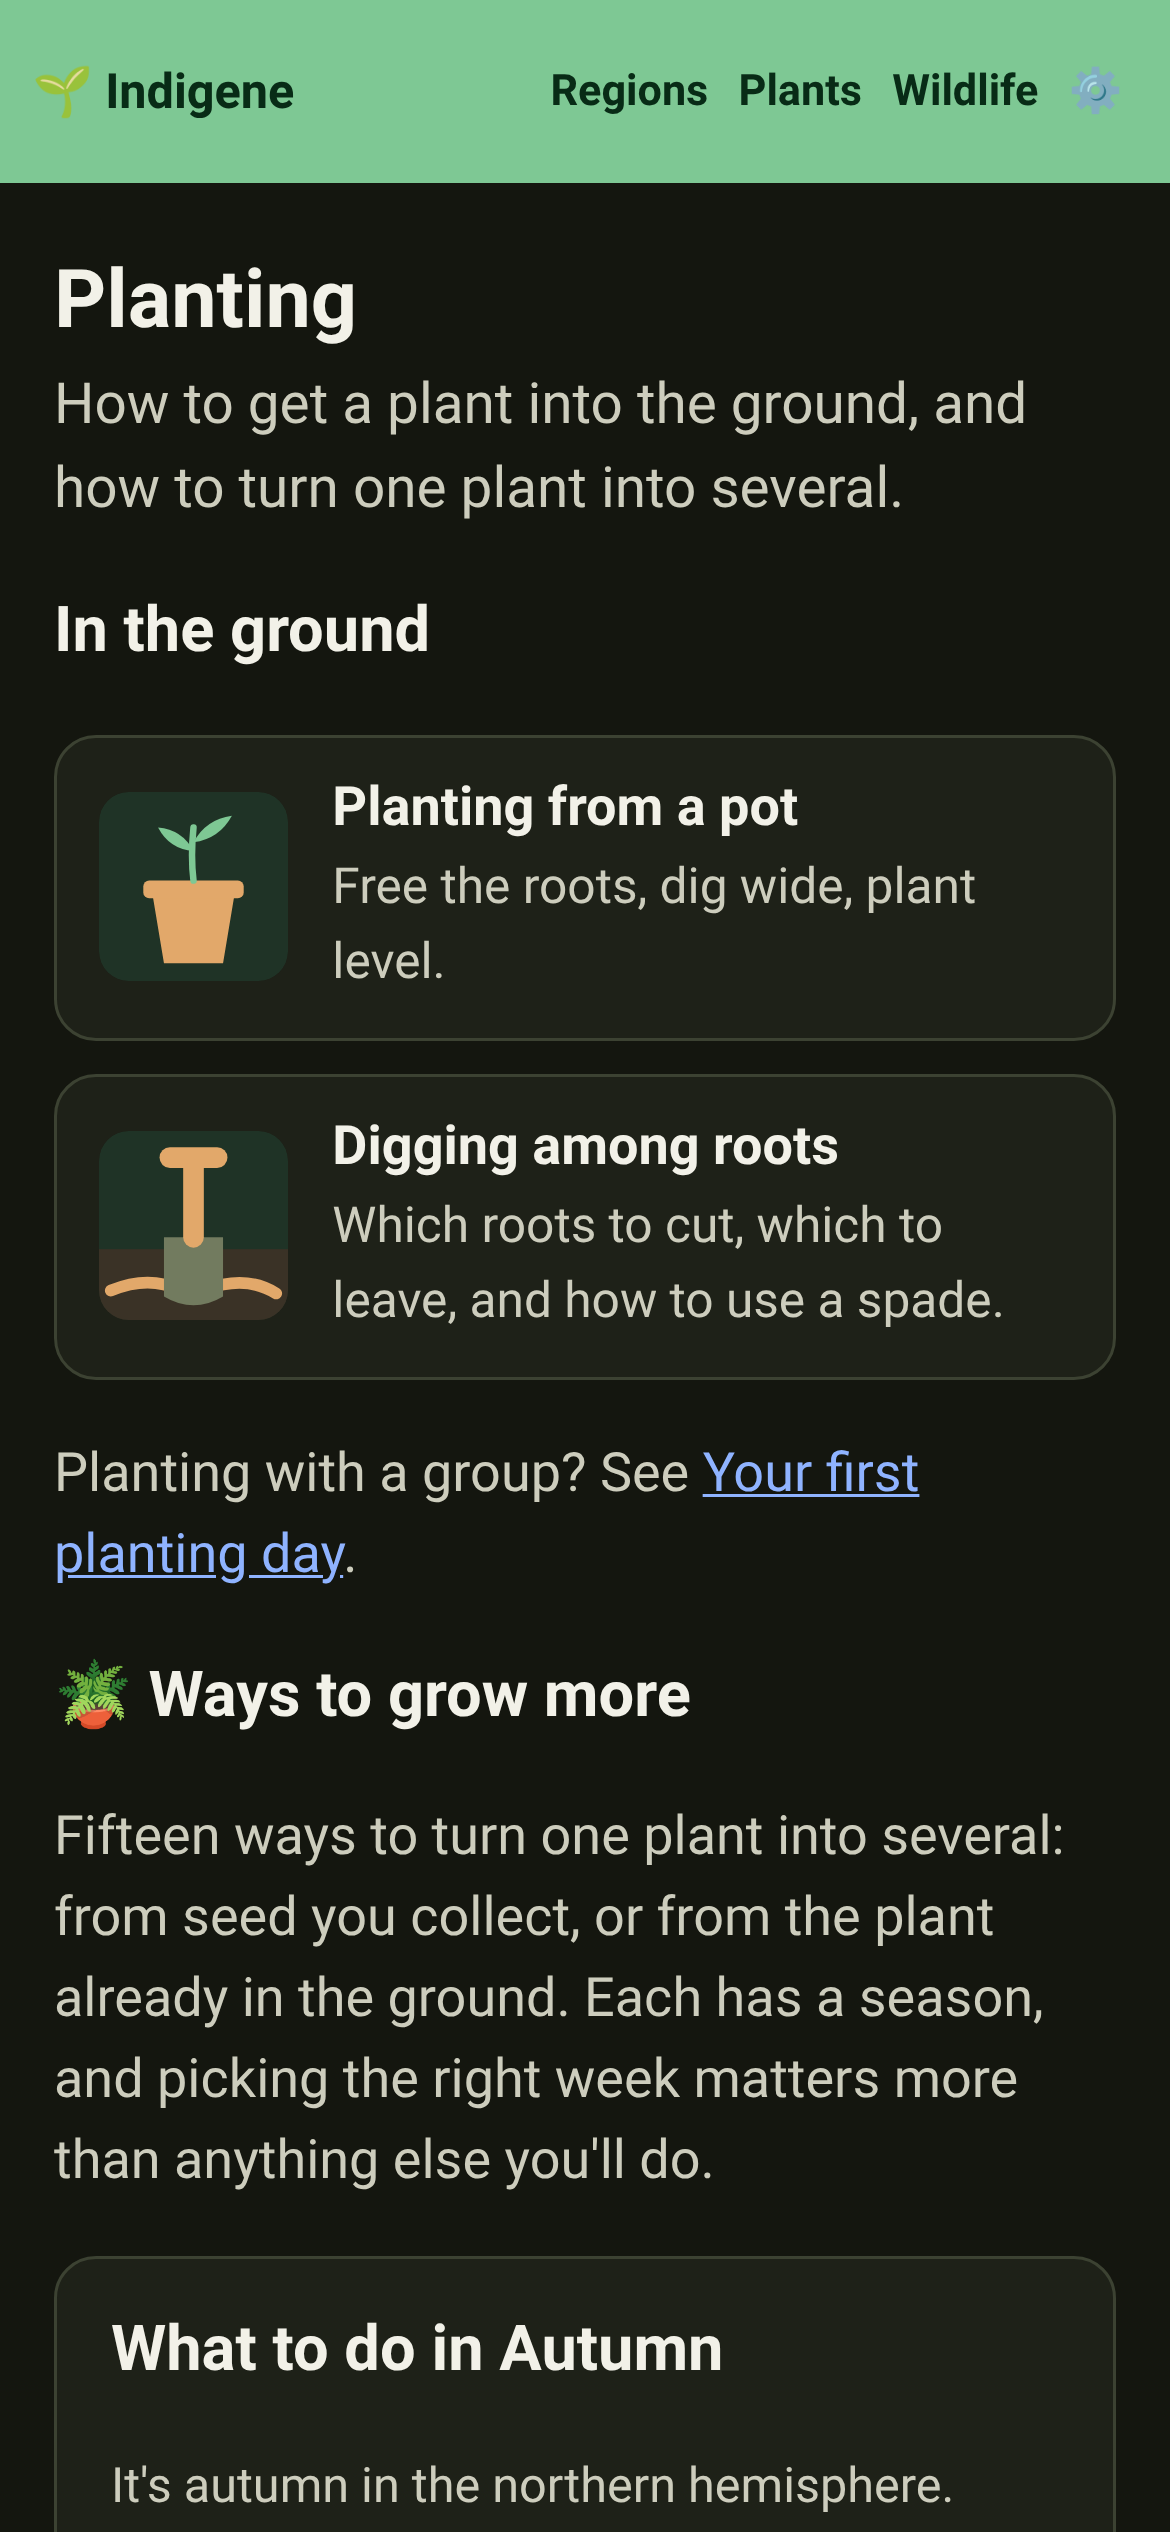
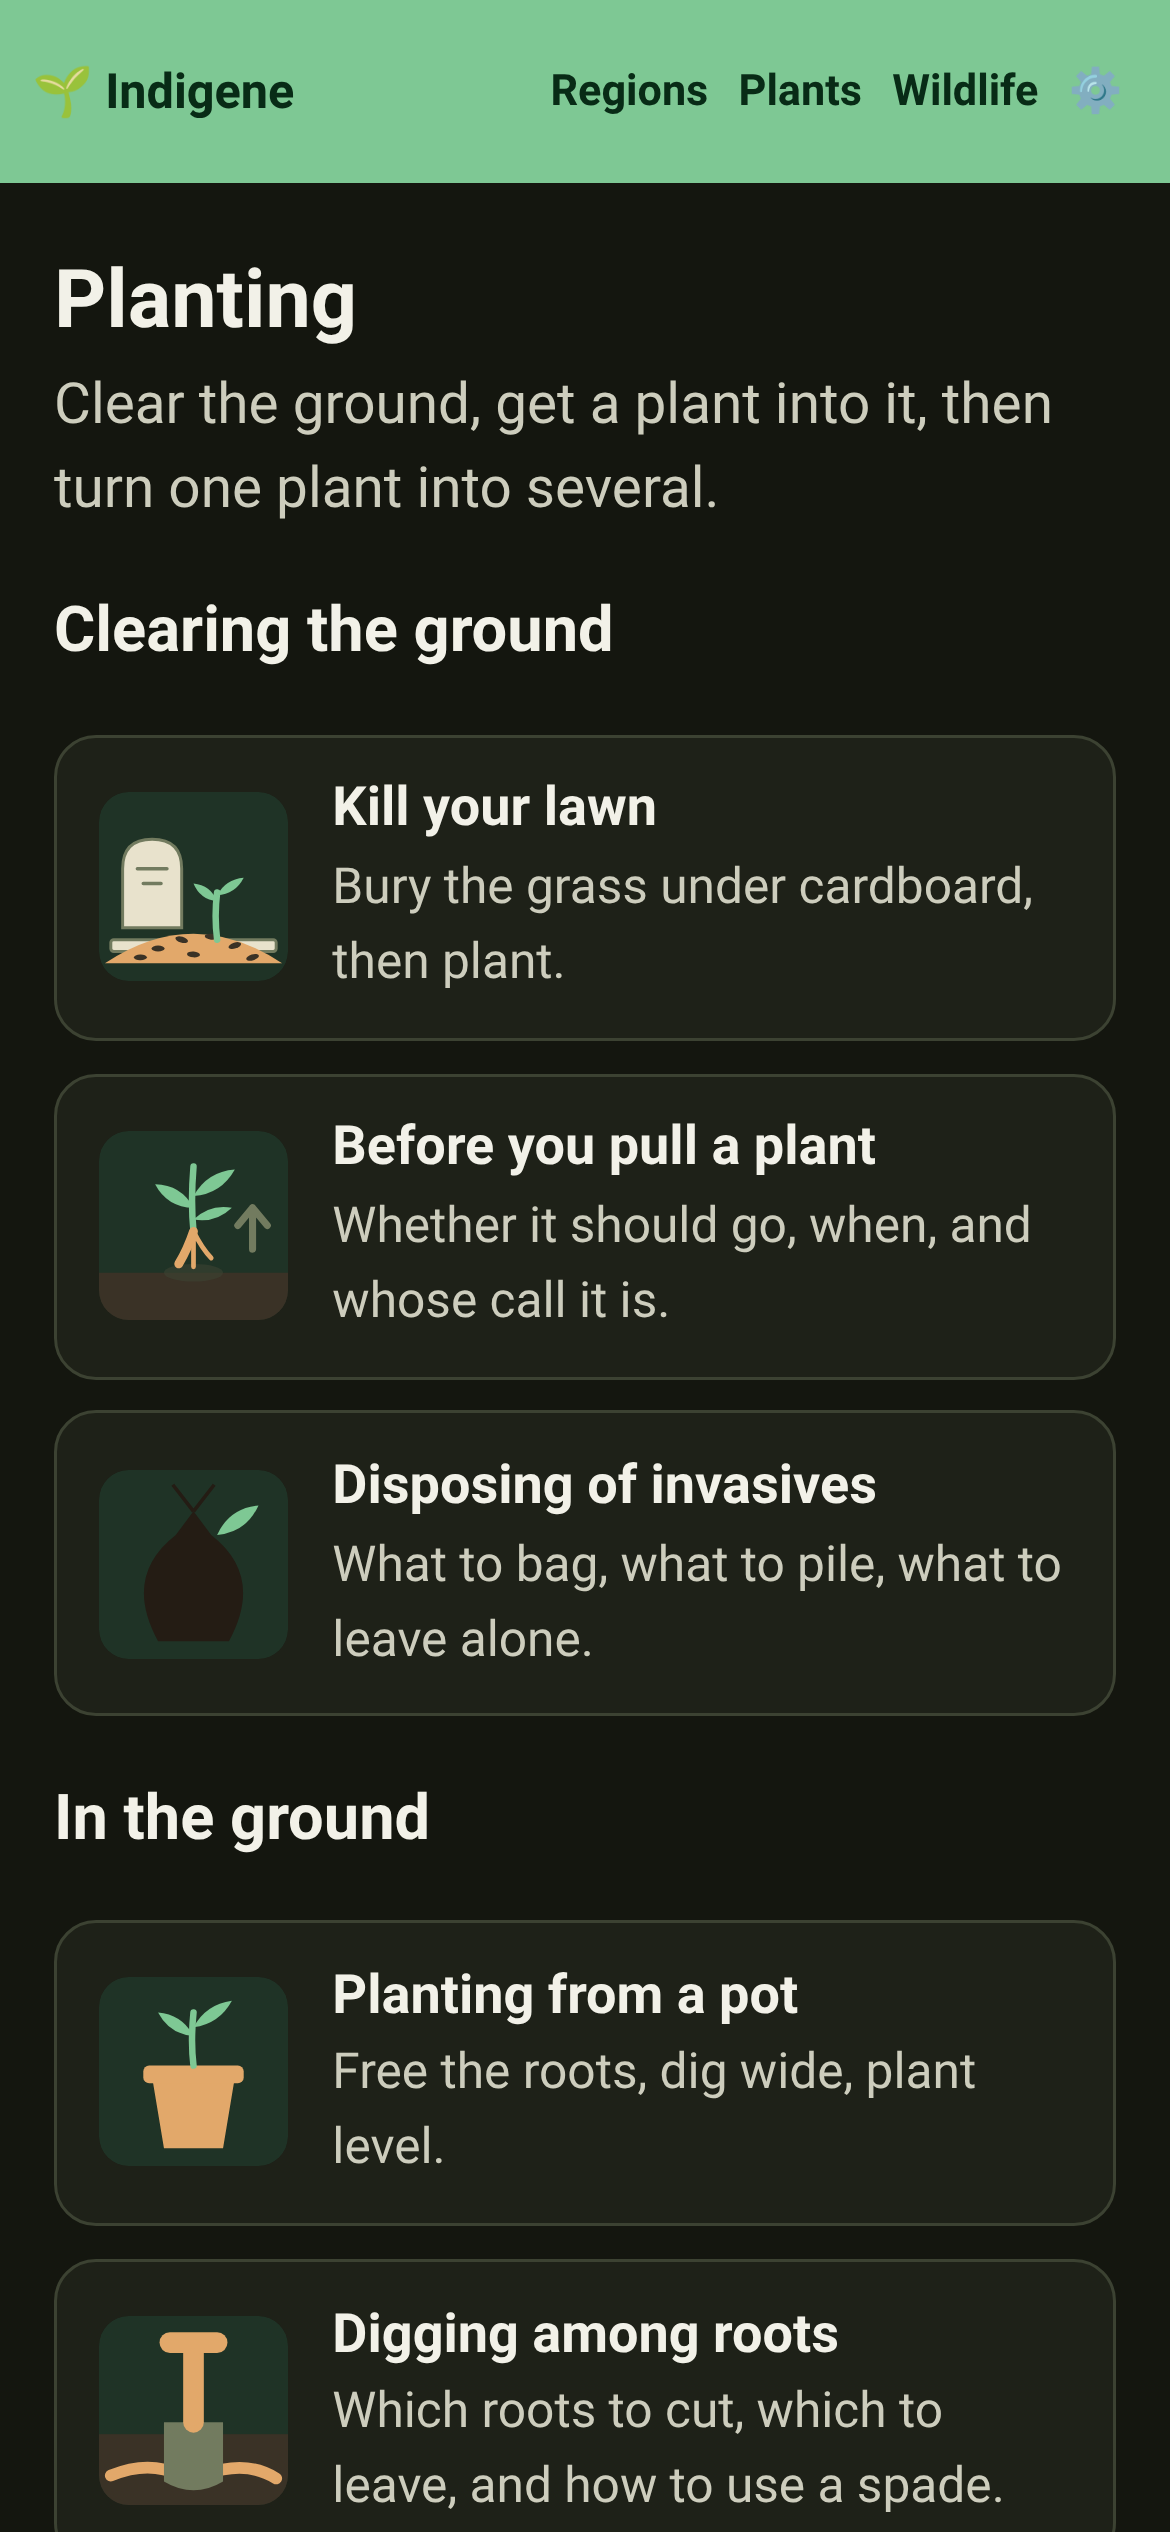
Planting runs in the order the work does
Clearing the ground (the lawn guide, Before you pull a plant, disposing
of invasives), in the ground (the two how-to guides), then the ways to
grow more. The lawn guide was a link in the middle of the page; it is a
row now, with the others.

routes.test.ts writes out the fifteen technique addresses so that no
rearrangement can move them.

Claude-Session: https://claude.ai/code/session_01Sq9k8BgnwbwYtWVqdCeZQE

diff --git a/app/src/steps/planting.ts b/app/src/steps/planting.ts
@@ -1,5 +1,13 @@
-// Ways to grow more: the index at `#/planting` and a page per technique at
-// `#/planting/<slug>`.
+// Planting (`#/planting`): the page for everything between choosing a plant
+// and having more of it. It runs in the order the work does — clearing the
+// ground (the lawn guide, Before you pull a plant, disposing of invasives),
+// getting a plant in the ground (the two how-to guides in `lib/howto.ts`),
+// then the ways to grow more, a page per technique at `#/planting/<slug>`.
+//
+// The technique addresses are older than this layout and are linked from
+// every plant page and from the release notes; `routes.test.ts` pins each one
+// so a rearrangement here can never move them. The rest of this note is about
+// the techniques.
 //
 // ## Why these left the plant page
 //
@@ -52,7 +60,7 @@ import { commonName } from "../lib/names";
 import { richText } from "../components/rich-text";
 import { seasonStrip } from "../components/season-strip";
 import { GUIDES, guideAt } from "../lib/howto";
-import { guideRow, renderGuide } from "./howto";
+import { guideRow, pageRow, renderGuide } from "./howto";
 
 /** The index's address. One place knows the URL shape. */
 const INDEX_HREF = "#/planting";
@@ -186,12 +194,18 @@ export async function renderPlantingIndex(main: HTMLElement): Promise<void> {
   main.append(
     el("h2", { class: "step-title" }, t("planting.landTitle")),
     el("p", { class: "step-lede" }, t("planting.landLede")),
-    // Getting a plant into the ground comes first: two how-to guides, and the
-    // page that gathers them for a group planting.
-    el("h3", {}, t("planting.groundTitle")),
+    // The page runs in the order the work does: clear the ground, plant, then
+    // make more. Each row is a page of its own; the techniques are below.
+    el("h3", { id: "clearing" }, t("planting.clearTitle")),
+    el("div", { class: "guide-rows" }, [
+      pageRow("#/kill-your-lawn", "bury", t("lawn.title"), t("planting.row.lawn")),
+      pageRow("#/removing", "pull", t("removing.title"), t("planting.row.removing")),
+      ...GUIDES.filter((g) => g.home === "removing").map(guideRow),
+    ]),
+    el("h3", { id: "ground" }, t("planting.groundTitle")),
     el("div", { class: "guide-rows" }, GUIDES.filter((g) => g.home === "planting").map(guideRow)),
     el("p", { class: "more-link" }, tx("howto.groupWayOn", { link: el("a", { href: "#/volunteer" }, t("volunteer.title")) })),
-    el("h3", {}, t("planting.title")),
+    el("h3", { id: "grow-more" }, t("planting.title")),
     el("p", {}, t("planting.lede")),
     // What this season is for, and the two things to know before believing any
     // window on the page. One stack on a phone; on a laptop the card takes the
@@ -212,8 +226,6 @@ export async function renderPlantingIndex(main: HTMLElement): Promise<void> {
     ]),
     techniqueGroup("seed"),
     techniqueGroup("plant"),
-    // Most gardens start from turf, and none of the techniques above clear it.
-    el("p", { class: "more-link" }, tx("lawn.wayOn", { link: el("a", { href: "#/kill-your-lawn" }, t("lawn.wayOnLink")) })),
     sourcesSection(),
     el("div", { class: "btn-row", style: "margin-top:1rem" }, [
       el("button", { class: "btn btn-secondary", onClick: () => navigate("plants") }, t("planting.browsePlants")),

diff --git a/app/src/lib/routes.test.ts b/app/src/lib/routes.test.ts
@@ -1,5 +1,7 @@
 import { describe, it, expect } from "vitest";
-import { addressParam } from "./routes";
+import { addressParam, canonicalPath, parseRoute, shareablePaths } from "./routes";
+import { techniqueBySlug } from "./planting";
+import { GUIDES } from "./howto";
 
 describe("addressParam", () => {
   it("reads the query a link wrote into the hash", () => {
@@ -13,5 +15,37 @@ describe("addressParam", () => {
 
   it("ignores a leftover search string while the hash is the route", () => {
     expect(addressParam("add", "#/saved/abc", "?add=oak")).toBeNull();
+  });
+});
+
+// Addresses that are already out in the world: on every plant page's "How to
+// grow more", in the release notes, in links people have sent. The Planting
+// page has been rearranged around them once and will be again; these must
+// never move. Written out, not read from the catalog, so renaming a slug
+// there fails here.
+describe("planting addresses that must keep working", () => {
+  const TECHNIQUES = [
+    "direct-sowing", "fresh-sowing", "cold-stratification", "scarification", "surface-sowing",
+    "double-dormancy", "division", "softwood-cuttings", "semi-hardwood-cuttings", "hardwood-cuttings",
+    "layering", "suckers", "runners", "root-cuttings", "spores",
+  ];
+
+  it("keeps the index and every technique where it was", () => {
+    expect(canonicalPath("planting")).toBe("planting");
+    for (const slug of TECHNIQUES) {
+      expect(canonicalPath("planting", slug), slug).toBe(`planting/${slug}`);
+      expect(shareablePaths()).toContain(`planting/${slug}`);
+      expect(parseRoute(`planting/${slug}`)).toEqual({ step: "planting", param: slug });
+    }
+  });
+
+  it("lets no how-to guide take a technique's address", () => {
+    for (const guide of GUIDES) {
+      if (guide.home === "planting") expect(techniqueBySlug(guide.slug), guide.slug).toBeNull();
+    }
+  });
+
+  it("keeps the pages the Planting page now gathers", () => {
+    for (const path of ["removing", "kill-your-lawn", "volunteer"]) expect(canonicalPath(path)).toBe(path);
   });
 });

diff --git a/app/src/steps/howto.ts b/app/src/steps/howto.ts
@@ -9,7 +9,7 @@ import { el, clear } from "../ui";
 import { knownRegion } from "../state";
 import { t, tx } from "../lib/i18n";
 import type { TKey } from "../locales/en";
-import { squareArt, figureArt } from "../components/page-art";
+import { squareArt, figureArt, type SquareName } from "../components/page-art";
 import { richText } from "../components/rich-text";
 import { mostWanted } from "../lib/invasives";
 import { GUIDES, guideHref, guideSources, type Guide, type GuideBlock } from "../lib/howto";
@@ -42,17 +42,18 @@ function block(b: GuideBlock): HTMLElement {
   }
 }
 
-/** A guide as a row: its square drawing, its name, one line. The row is the
+/** A page as a row: a square drawing, its name, one line. The row is the
  *  link, the way a plant's row is. */
-export function guideRow(guide: Guide): HTMLElement {
-  return el("a", { class: "card guide-row", href: guideHref(guide) }, [
-    squareArt(guide.square),
-    el("span", { class: "guide-row-text" }, [
-      el("strong", {}, t(k(`howto.${guide.slug}.title`))),
-      el("span", {}, t(k(`howto.${guide.slug}.line`))),
-    ]),
+export function pageRow(href: string, square: SquareName, title: string, line: string): HTMLElement {
+  return el("a", { class: "card guide-row", href }, [
+    squareArt(square),
+    el("span", { class: "guide-row-text" }, [el("strong", {}, title), el("span", {}, line)]),
   ]);
 }
+
+/** A guide as a row. */
+export const guideRow = (guide: Guide): HTMLElement =>
+  pageRow(guideHref(guide), guide.square, t(k(`howto.${guide.slug}.title`)), t(k(`howto.${guide.slug}.line`)));
 
 export function renderGuide(main: HTMLElement, guide: Guide): void {
   clear(main);

diff --git a/app/src/locales/en.ts b/app/src/locales/en.ts
@@ -3547,12 +3547,15 @@ export const en = {
   "welcome.way.volunteerLine": "What to know before a volunteer planting.",
   "wanted.disposeGuide": "Bagging and piling what you pull →",
   "planting.landTitle": "Planting",
-  "planting.landLede": "How to get a plant into the ground, and how to turn one plant into several.",
+  "planting.landLede": "Clear the ground, get a plant into it, then turn one plant into several.",
   "planting.groundTitle": "In the ground",
   "howto.back.planting": "← Planting",
   "howto.back.removing": "← Before you pull a plant",
   "howto.back.volunteer": "← Planting day",
   "howto.groupWayOn": "Planting with a group? See {link}.",
+  "planting.clearTitle": "Clearing the ground",
+  "planting.row.lawn": "Bury the grass under cardboard, then plant.",
+  "planting.row.removing": "Whether it should go, when, and whose call it is.",
 } as const;
 
 /** Every valid string key. Derived, so it can never drift from the strings. */

diff --git a/app/src/locales/fr.ts b/app/src/locales/fr.ts
@@ -3463,10 +3463,13 @@ export const fr: Dict = {
   "welcome.way.volunteerLine": "Quoi savoir avant un chantier bénévole.",
   "wanted.disposeGuide": "Mettre en sac ou en tas ce qu'on arrache →",
   "planting.landTitle": "Planter",
-  "planting.landLede": "Comment mettre un plant en terre, et comment faire plusieurs plantes d'une seule.",
+  "planting.landLede": "Préparer le terrain, y mettre un plant, puis faire plusieurs plantes d'une seule.",
   "planting.groundTitle": "En terre",
   "howto.back.planting": "← Planter",
   "howto.back.removing": "← Avant d'arracher une plante",
   "howto.back.volunteer": "← Jour de plantation",
   "howto.groupWayOn": "Vous plantez en groupe ? Voyez {link}.",
+  "planting.clearTitle": "Préparer le terrain",
+  "planting.row.lawn": "Enterrer le gazon sous du carton, puis planter.",
+  "planting.row.removing": "Faut-il l'enlever, quand, et qui en décide.",
 };

diff --git a/changelog.d/claude-eloquent-sagan-05yg2n.md b/changelog.d/claude-eloquent-sagan-05yg2n.md
@@ -1,6 +1,6 @@
 ### Added
 
-- **[Planting](https://indigene.app/planting) now starts with getting a plant in the ground.** Two short illustrated guides, planting from a pot and digging among tree roots, sit above the ways to grow more.
+- **[Planting](https://indigene.app/planting) now runs in the order the work does: clear the ground, get a plant in, grow more.** Two new illustrated guides cover planting from a pot and digging among tree roots. Every older link still works.
 - **[Your first planting day](https://indigene.app/volunteer): a page to read before a volunteer planting.** It gathers the planting guides with what to bring and what to do with invasives you pull. Organizers can send the link ahead.
 - Invasives: [Before you pull a plant](https://indigene.app/removing/disposal) gains a guide to what happens after: which pieces go in a bag, which dry on a pile, and why knotweed roots never go in compost.
 - Internal: `lib/howto.ts` holds the guides' sections and sources, each guide living under `planting`, `removing` or `volunteer`; `howto.test.ts` fails a section cited by fewer than two publishers. Figures are a third family in `page-art-svg.mjs`, labelled rather than hidden.
